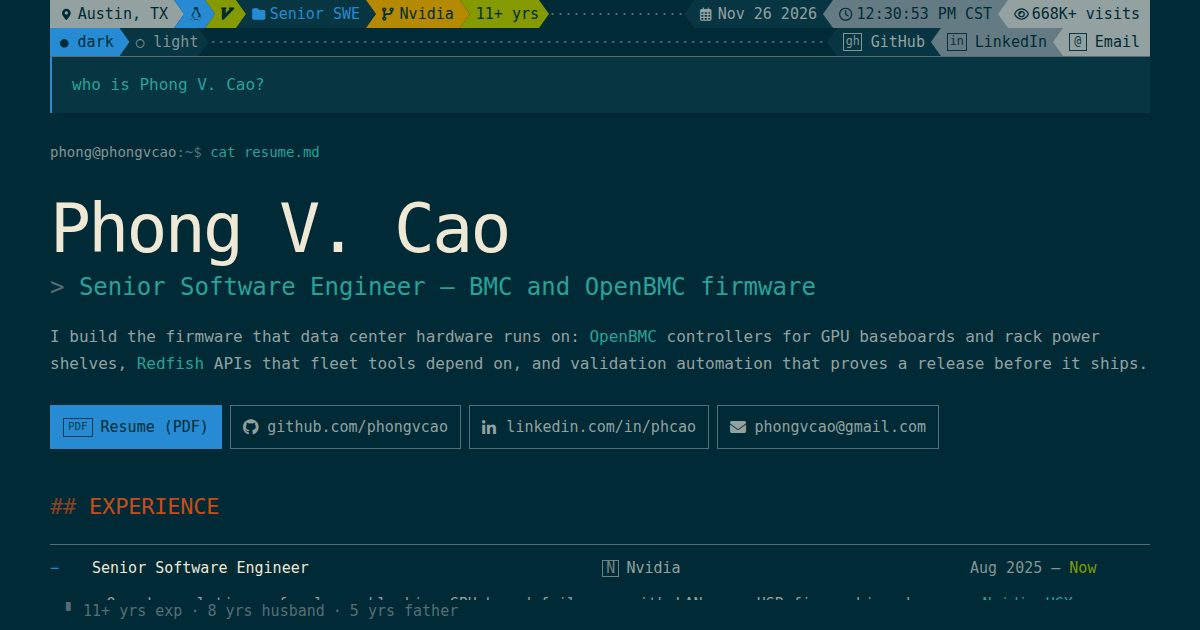
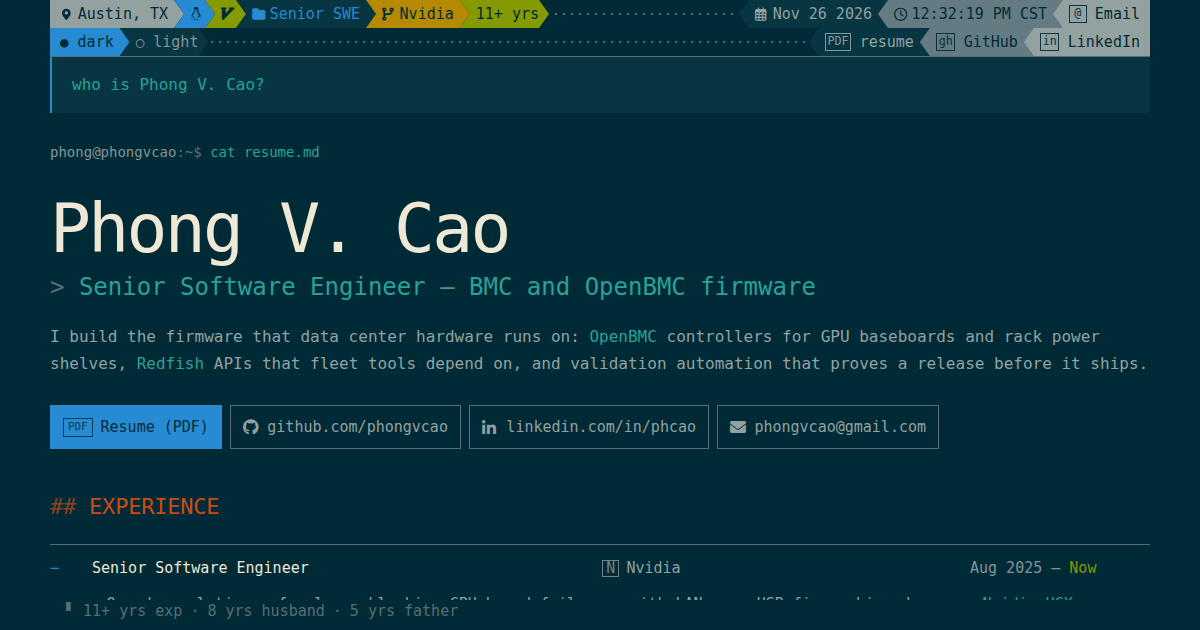
site: right-hand powerline labels rotated
Line one ends with Email; line two reads resume, GitHub, LinkedIn.

Changed region(s): [[0.5858, 0.0, 0.9558, 0.0905]]

diff --git a/index.html b/index.html
@@ -93,7 +93,7 @@
       <div class="pl-group pl-right">
         <span class="pl-seg pl-light"><span class="pl-icon" aria-hidden="true">&#xF073;</span><time id="clock-date" datetime="2026-11-26T10:39:58-06:00">Nov 26 2026</time></span>
         <span class="pl-seg pl-light"><span class="pl-icon" aria-hidden="true">&#xF017;</span><time id="clock-time" datetime="2026-11-26T10:39:58-06:00">10:39:58 AM CST</time></span>
-        <span class="pl-seg pl-metric"><span class="pl-icon" aria-hidden="true">&#xF06E;</span>668K+ visits</span>
+        <a class="pl-seg pl-social" href="mailto:phongvcao@gmail.com" title="phongvcao@gmail.com"><span class="pl-badge" aria-hidden="true">@</span>Email</a>
       </div>
     </div>
     <div class="pl-line pl-line-social">
@@ -103,9 +103,9 @@
       </div>
       <span class="pl-fill" aria-hidden="true"></span>
       <div class="pl-group pl-right">
-        <a class="pl-seg pl-social" href="https://github.com/phongvcao" target="_blank" rel="noopener"><span class="pl-badge" aria-hidden="true">gh</span>GitHub</a>
-        <a class="pl-seg pl-social" href="https://www.linkedin.com/in/phcao" target="_blank" rel="noopener"><span class="pl-badge" aria-hidden="true">in</span>LinkedIn</a>
-        <a class="pl-seg pl-social" href="mailto:phongvcao@gmail.com"><span class="pl-badge" aria-hidden="true">@</span>Email</a>
+        <a class="pl-seg pl-social" href="assets/phong-cao-resume.pdf" title="Resume (PDF)"><span class="pl-badge" aria-hidden="true">PDF</span>resume</a>
+        <a class="pl-seg pl-social" href="https://github.com/phongvcao" target="_blank" rel="noopener" title="github.com/phongvcao"><span class="pl-badge" aria-hidden="true">gh</span>GitHub</a>
+        <a class="pl-seg pl-social" href="https://www.linkedin.com/in/phcao" target="_blank" rel="noopener" title="linkedin.com/in/phcao"><span class="pl-badge" aria-hidden="true">in</span>LinkedIn</a>
       </div>
     </div>
   </header>
